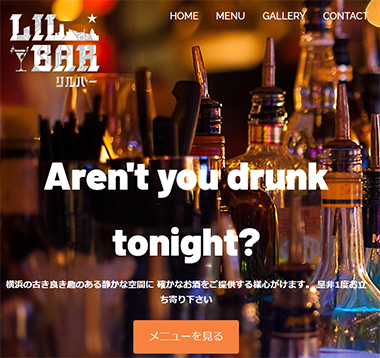
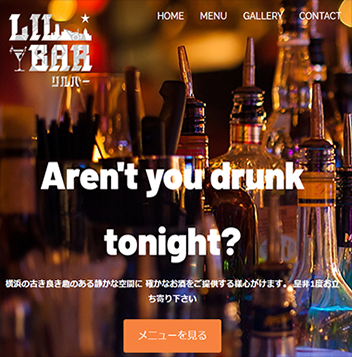
Add files via upload

diff --git a/css/styles.css b/css/styles.css
@@ -24,10 +24,6 @@ a {
   border: 2px solid;
   margin:0 auto;
 }
-
-  video{
-  margin:50px 0 0 -110px;
-}
   section {
   text-align: center;
 }
@@ -100,24 +96,20 @@ a {
   main{
 text-align: center;
 }
-
-.wrappergrid {
-  display: grid;
-  gap: 26px;
-  grid-template-columns: 0.5fr 0.5fr 0.5fr;
-  margin-top: 6%;
-  margin-bottom: 50px;
-  text-align: center;
-}
- 
-.TOP{
-  margin-left: 200px;
- }
- 
- .formSec {
+.formSec {
   background-color: #ffffff;
   padding-bottom: 60px;
 }
+
+li {
+  list-style:none;/*デフォルトの指定を解除*/
+  display:inline-block;/*liをインラインブロック要素に*/
+  padding:10px 0; /*縦の余白を指定*/
+  width:400px;/*幅を指定*/
+  height:400px;/*高さを指定*/
+  vertical-align:middle;/*縦方向を中央揃え*/
+  text-align:center;/*横方向を中央揃え*/
+  }
 
  .item {
   margin-bottom: 20px;
@@ -127,7 +119,8 @@ text-align: center;
  .wrappergrid h2{
   margin-top: 20px;
  }
-  form {
+
+ form {
   width: 600px;
   margin: 0 auto;
 }
@@ -136,8 +129,8 @@ text-align: center;
   input[type="email"],
   select,
   textarea {
-  border: 1px solid #cccccc;
-  background-color: #ffffff;
+  border: 1px solid #000000;
+  background-color: #000000;
   width: 100%;
   margin-top: 5px;
   padding: 4px 8px;
@@ -173,12 +166,12 @@ text-align: center;
   text-align: center;
 }
   input[type="submit"] {
-  background-color: #121212;
+  background-color: #000000;
   color: #ffffff;
   padding: 18px 80px;
 }
   footer {
-  background-color: #735656;
+  background-color: hsl(0, 14%, 39%);
   color: #f3e9e5;
   padding: 14px 10px 20px;
   text-align: center;
@@ -195,7 +188,7 @@ text-align: center;
   z-index: -1;
 }
   input[type="submit"]:hover {
-  background-color: #c537a6;
+  background-color: #f80303;
   margin-left: 20px;
   transition-property: background-color,margin-left;
   transition-duration: 300ms;
@@ -287,7 +280,31 @@ text-align: center;
     margin-bottom: 50px;g
     text-align: center; */
   }
+  html {
+    scroll-behavior: smooth;
+  }
   
+  a {
+    position: fixed;
+    bottom: 24px;
+    right: 24px;
+    width: 48px;
+    height: 48px;
+    text-decoration: none;
+    background-color: #6002EE;
+    display: block;
+    text-align: center;
+    border-radius: 24px;
+  }
+  
+  a::before {
+    content: '\f062';
+    font-family: 'Font Awesome 6 Free';
+    font-size: 30px;
+    font-weight: 900;
+    color: #fff;
+    line-height: 48px;
+  }
   main h2 {
 
     font-size: 20px;

diff --git a/design.html b/design.html
@@ -24,22 +24,23 @@
   </header>
   <main>
     <h2>Web Design</h2>
-    <div class="wrappergrid">
-      <div class="item">
-         <a href="http://submarge.html.xdomain.jp/index.html"> <img src="img/BST.png" alt="BST">
-          <p>Black Swallow Tattoo</p></a>
-      </div>
-      <div class="item">
-        <a href="https://catmutilation.github.io/Lilbar/">  
+    <ul>
+      <li><a href="http://submarge.html.xdomain.jp/index.html">
+        <img src="img/BSTsinn.png" alt="BST">
+        <p>Black Swallow Tattoo</p></a></li>
+      <li><a href="https://catmutilation.github.io/Lilbar/">  
         <img src="img/Lilbar.png" alt="LilBar">
-          <p>LilBar</p></a>
+          <p>LilBar</p></a></li>
+      <li><a href="https://catmutilation.github.io/ITSchool/">  
+        <img src="img/itスクール.png" alt="itスクール">
+        <p>就労移行支援ITスクール</p></a></li>
+      </ul>
+      <li><a href="https://catmutilation.github.io/alpaca/">  
+        <img src="img/alpaca shin.png" alt="alpaca">
+        <p>アルパカについて</p></a></li>
+    </ul>
+        <div>
         </div>
-        <div class="item">
-          <a href="https://catmutilation.github.io/ITSchool/">  
-          <img src="img/itスクール.png" alt="itスクール">
-          <p>就労移行支援ITスクール</p></a>
-        </div>
-    </div><!-- /.grid -->
 <h2><a href="index.html">TOPへ</a></h2>
 
 </main>

diff --git a/design2.html b/design2.html
@@ -19,22 +19,15 @@
     </header>
     <main>
     <h2>名刺・ショップカード・MENU</h2>
-
-  <div class="wrappergrid">
-    <div class="item">
-      <img src="img/name-card.png" alt="名刺">
-      <p>名刺</p>
-    </div>
-
-    <div class="item">
-      <img src="img/shop-card.png" alt="ショップカード">
-      <p>ショップカード</p>
-    </div>
-
-    <div class="item">
-              <img src="img/menu.png" alt="MENU">
-    <p>MENU</p>
-    </div>
+    <ul>
+      <li>  <img src="img/name-card.png" alt="名刺">
+        <p>名刺</p></li>
+      <li> <img src="img/shop-card.png" alt="ショップカード">
+        <p>ショップカード</p></a></li>
+      <li><img src="img/menu.png" alt="MENU">
+        <p>MENU</p></li>
+      </ul>
+      </div>
   </div>
 
 <h2><a href="index.html">TOPへ</a></h2>
